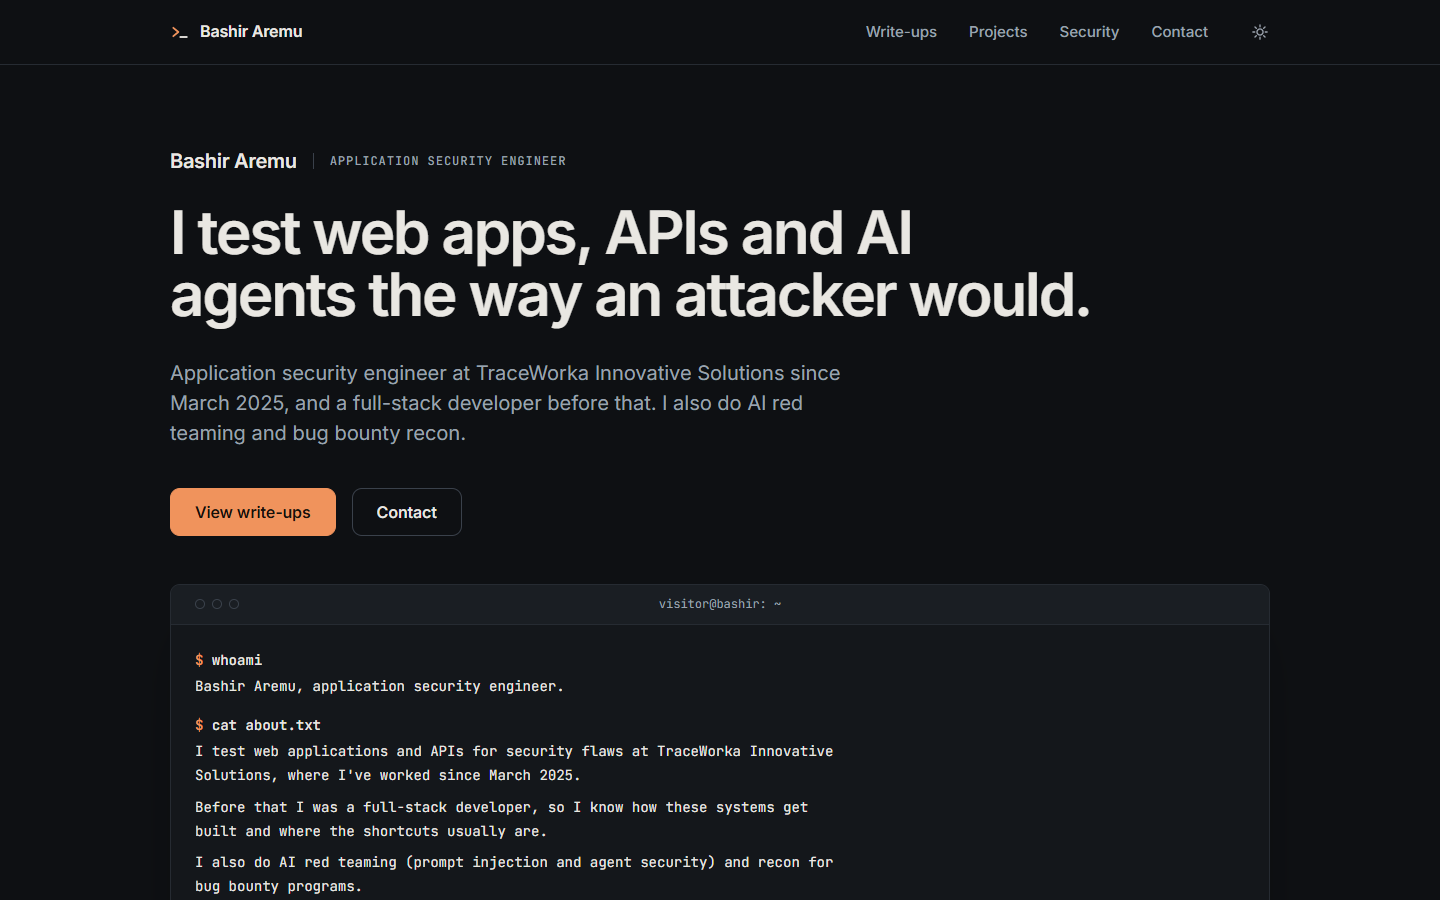
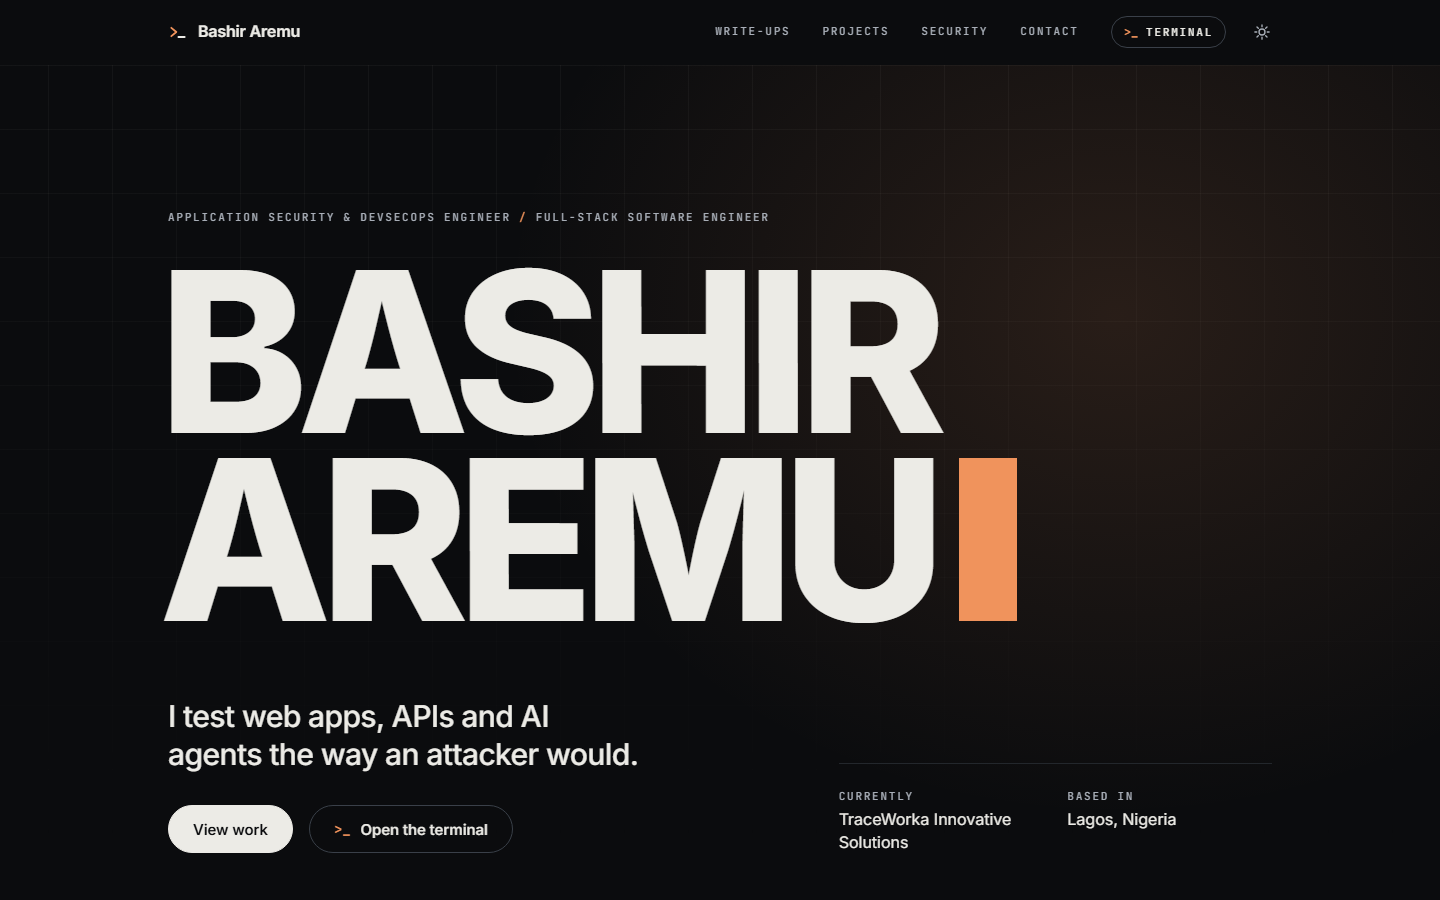
Retake the this-site screenshot and share image for the new design

diff --git a/scripts/og-image.html b/scripts/og-image.html
@@ -38,8 +38,8 @@
         flex-direction: column;
         justify-content: space-between;
         padding: 72px 80px;
-        background: #0e1013;
-        color: #e9e7e2;
+        background: #0b0c0e;
+        color: #ecebe6;
         font-family: 'Inter Variable', sans-serif;
         -webkit-font-smoothing: antialiased;
       }
@@ -68,7 +68,7 @@
         align-items: center;
         justify-content: space-between;
         padding-top: 28px;
-        border-top: 1px solid #262b32;
+        border-top: 1px solid #23272c;
         color: #9ba3ae;
         font-family: 'JetBrains Mono Variable', monospace;
         font-size: 22px;
@@ -89,14 +89,14 @@
     <div class="brand">
       <svg viewBox="0 0 24 24" aria-hidden="true">
         <path d="M4 7l6 5-6 5" fill="none" stroke="#f0935c" stroke-width="2.2" stroke-linecap="round" stroke-linejoin="round" />
-        <path d="M12.5 18H20" fill="none" stroke="#e9e7e2" stroke-width="2.2" stroke-linecap="round" />
+        <path d="M12.5 18H20" fill="none" stroke="#ecebe6" stroke-width="2.2" stroke-linecap="round" />
       </svg>
       Bashir Aremu
     </div>
     <h1>I test web apps, APIs and AI agents the way an attacker would.</h1>
     <div class="foot">
       <span><b>$</b> whoami</span>
-      <span>Application security engineer</span>
+      <span>AppSec / DevSecOps / Full-Stack</span>
     </div>
   </body>
 </html>

diff --git a/src/content/projects/this-site.md b/src/content/projects/this-site.md
@@ -4,7 +4,7 @@ summary: "A static portfolio that sends a strict Content-Security-Policy, runs n
 kind: security
 tags: [Astro, TypeScript, CSP]
 image: ./images/this-site.png
-imageAlt: "Home page of this site, with the headline above a terminal window."
+imageAlt: "Home page of this site: the name set large, with the headline and two buttons under it."
 live: "/security"
 liveLabel: "How it is hardened"
 featured: true
